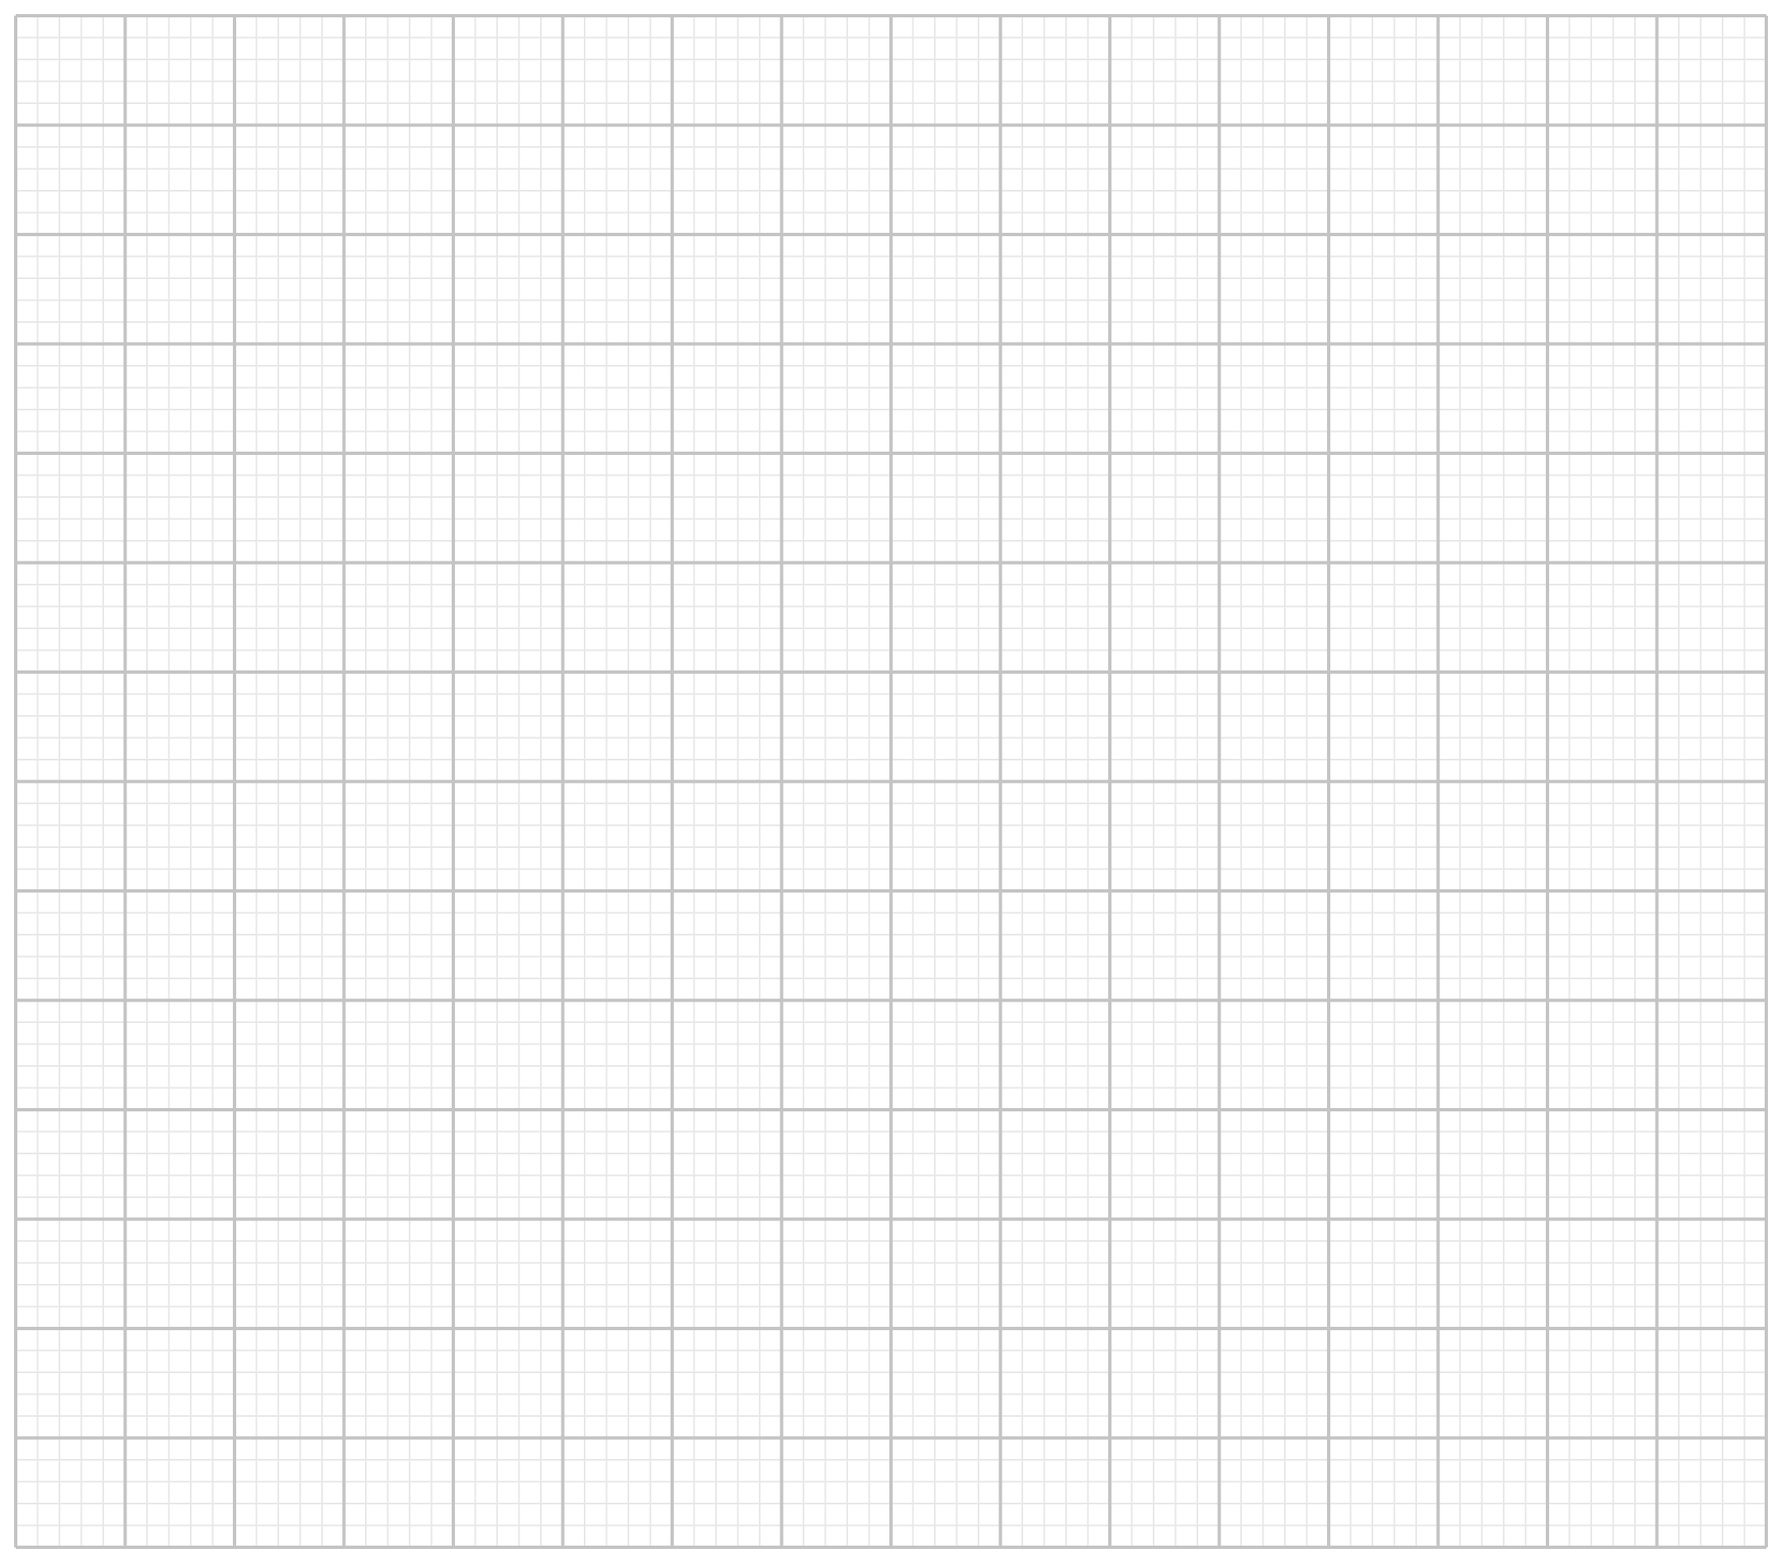
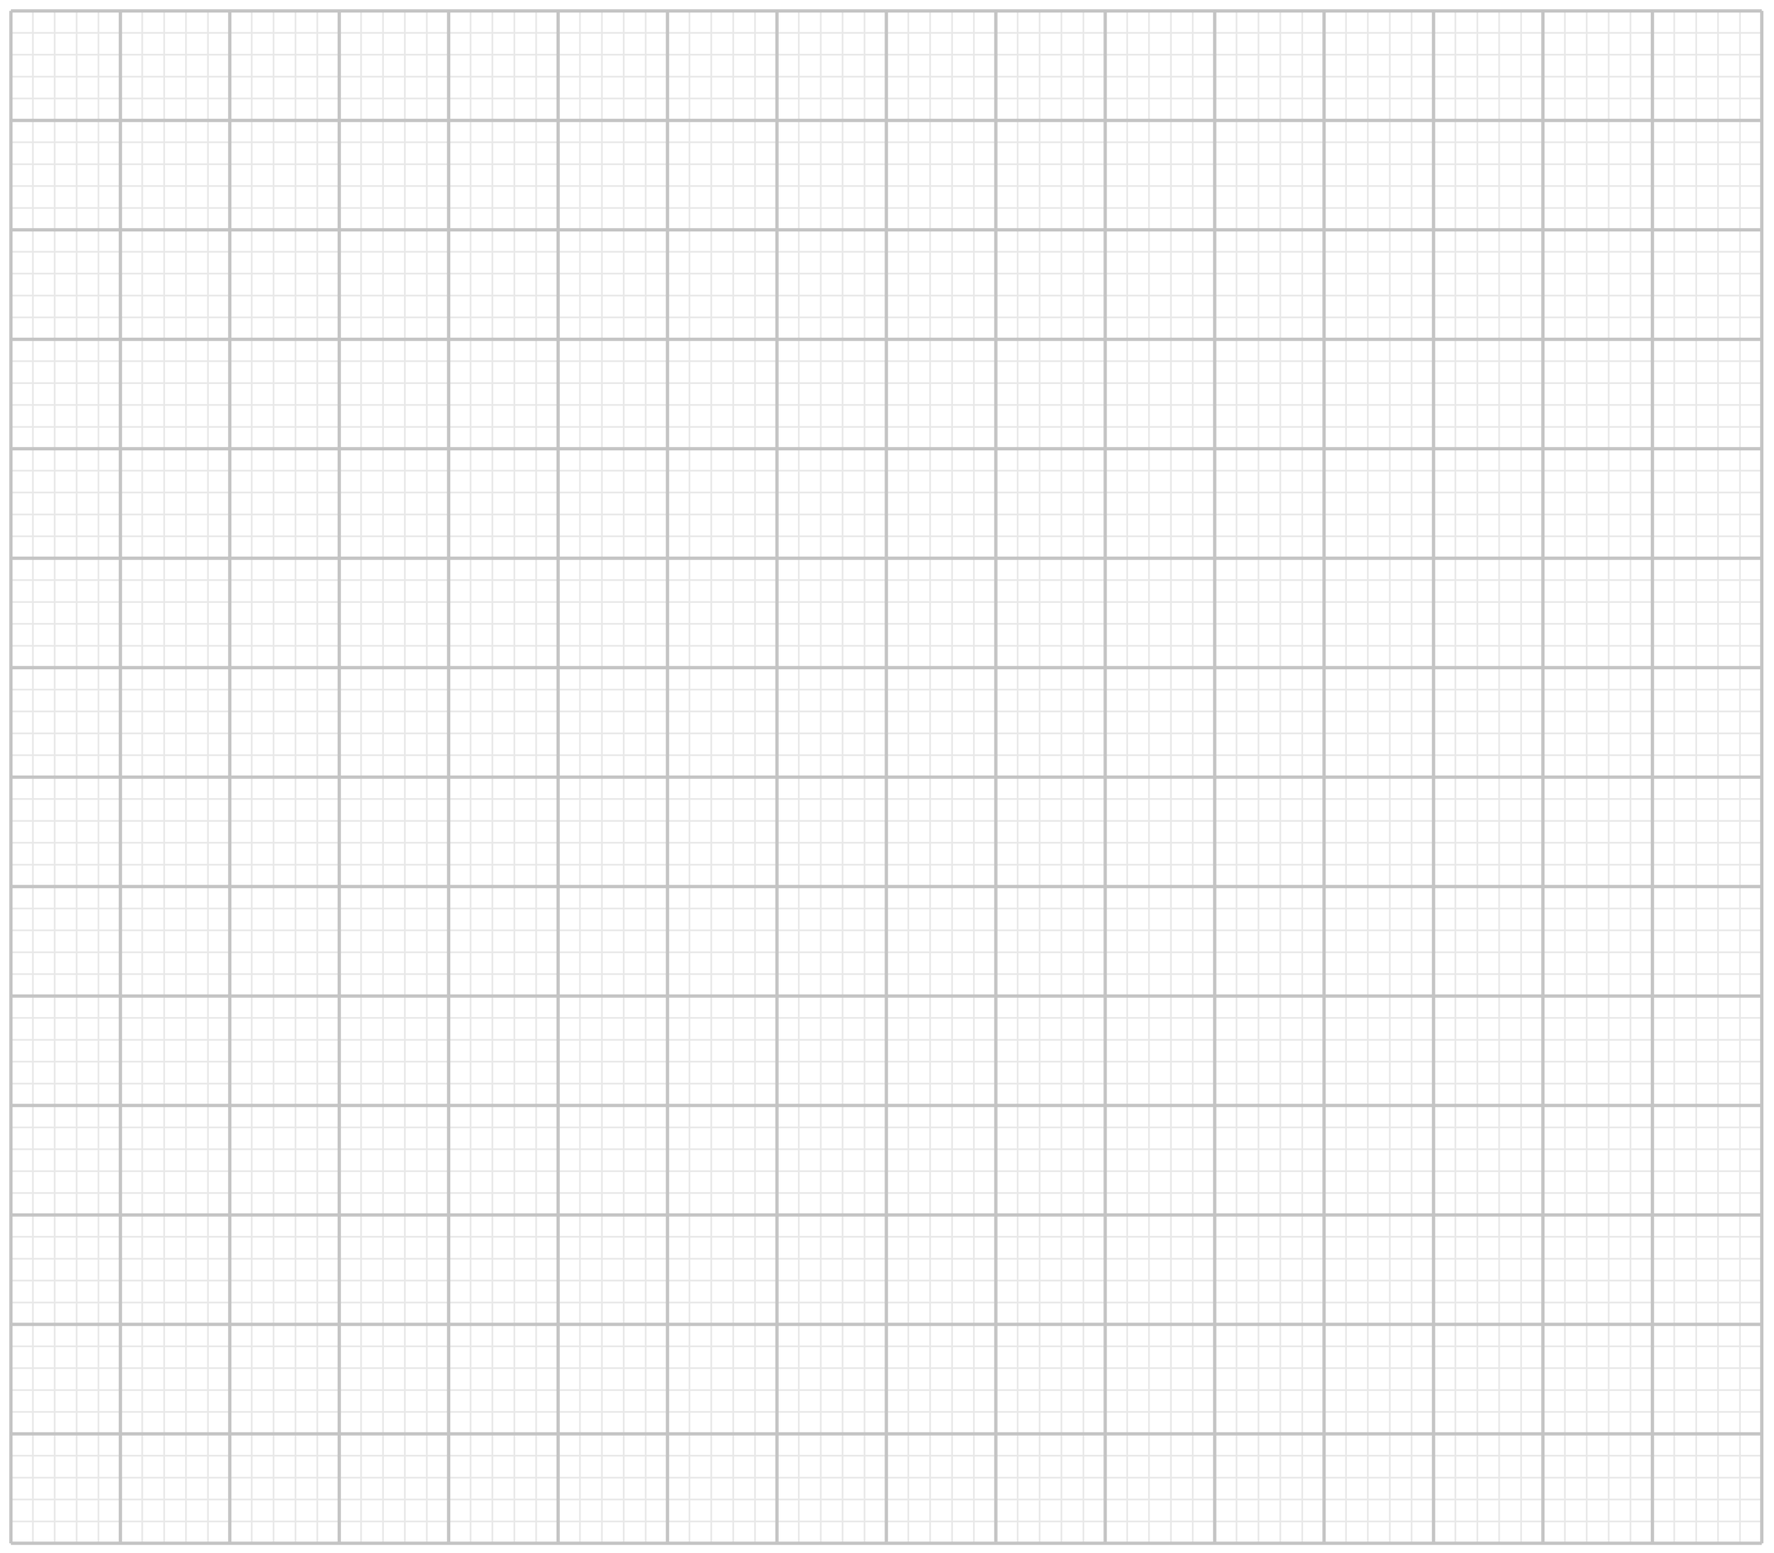
Grids print to scale everywhere; A Math Set 2 P2 Q10 ends without optimisation
Adrian, 24 Sep 2026: "is the graph to scale?" A graph-paper grid the candidate
draws on now prints with 1 cm squares (2 mm small squares) in all three outputs:
- figure.mjs trims a blank grid (axes: false) to the grid plus a hairline, so a
  16-square grid is 16.2 cm, not 18.7 cm of mostly empty margin;
- render-paper-pdf.ts sizes a grid for the PRINTED page (166 mm), since its sizing
  pass runs on the 800 px screen layout, and lets it move left into the number
  gutter (the 16-square grid had printed at 0.84 cm squares);
- export-docx.py measures the grid on its PNG and centres it over the margins when
  it is a hair wider than Word's 16 cm (was capped, 0.98 cm squares);
- publish.mjs stores gen_meta.figure.print_width_mm (figure-size.mjs: the grid's
  outer lines on the uploaded PNG over the spec's column count), and /app/print
  prints the figure at that width (print-paper figureWidthMm, render-prelim
  q-img-true) instead of 72% of the text width (about 0.7 cm squares).
A Set already live keeps the old size until it is re-published from the Mac.

"Is max/min gradient tested twice?" Set 2 had calculus optimisation three times
(P1 Q9, P2 Q8(b), P2 Q10) against about one a year in the real papers. P2 Q10(b)(c)
now ask for the k giving equal shaded areas, k = (e^b - 1)/b, and whether it exists
for every b > 0. Opus author, fresh Opus blind solve (agrees), Fable moderator 4/5
at standard, its wording fix applied; P2 re-assembled with --set 2, 10/10 accepted.
[…]

diff --git a/src/lib/render-paper-pdf.ts b/src/lib/render-paper-pdf.ts
@@ -302,8 +302,27 @@ export async function renderPaperPDF(input: PaperPdfInput): Promise<Buffer> {
         // A graph-paper grid (.pp-figure-tall) keeps its author's true size.
         const aspect = img.naturalWidth / img.naturalHeight;
         const PX_PER_MM = 96 / 25.4;
-        const capWidth = img.classList.contains('pp-figure-tall') ? Infinity : (aspect >= 1.5 ? 100 : 80) * PX_PER_MM;
+        const tall = img.classList.contains('pp-figure-tall');
+        const capWidth = tall ? Infinity : (aspect >= 1.5 ? 100 : 80) * PX_PER_MM;
         let width = Math.min(sharpWidth, colWidth, capWidth);
+        if (tall) {
+          // A grid keeps its 1 cm squares even when it is wider than the question's
+          // text column (Adrian, 24 Sep 2026: "is the graph to scale?" — a 16-square
+          // grid printed at 0.84 cm squares): it moves left into the question-number
+          // gutter, and shrinks only when the whole printed page cannot hold it.
+          // This pass runs on the screen layout (800 px wide), but the PDF prints
+          // the page 166 mm wide (@page margin 22 mm a side), so the column is
+          // worked out for PRINT: the insets beside it are fixed pt/px and carry over.
+          const PRINT_WIDTH_PX = 166 * (96 / 25.4);
+          const page = document.body.getBoundingClientRect();
+          const col = img.parentElement?.getBoundingClientRect();
+          const leftInset = col ? Math.max(0, col.left - page.left) : 0;
+          const rightInset = col ? Math.max(0, page.right - col.right) : 0;
+          const printCol = PRINT_WIDTH_PX - leftInset - rightInset;
+          width = Math.min(sharpWidth, printCol + leftInset);
+          img.style.marginLeft = `${-Math.max(0, width - printCol)}px`;
+          img.style.maxWidth = 'none';
+        }
         // Never let the height cap squash the drawing: an explicit width against
         // max-height distorts (a circle printed as an ellipse, GCE EM Set 1 Q9 /
         // Q26, Adrian 21 Sep 2026). Shrink the width so the capped height is met

diff --git a/src/lib/render-prelim.ts b/src/lib/render-prelim.ts
@@ -34,6 +34,10 @@ export interface PrelimQuestion {
   marks: number;
   text: string; // markdown with $…$ math (stem + flattened parts)
   imageUrl?: string | null;
+  /** Print the figure at exactly this width (mm) instead of the default 72% cap —
+   * a graph-paper grid whose squares must print at 1 cm (Adrian, 24 Sep 2026:
+   * "is the graph to scale?"). */
+  imageWidthMm?: number | null;
   answer: string; // key text (markdown/math ok)
 }
 
@@ -88,6 +92,7 @@ const STYLES = `
   .q-body{flex:1}
   .q-marks{text-align:right;font-weight:600;color:#333;margin-top:2px}
   .q-img{max-width:72%;display:block;margin:10px auto}
+  .q-img-true{max-width:100%}
   .q-space{border-bottom:1px dashed #e2e8f0;margin:6px 0 2px}
 
   .keypage{page-break-before:always}
@@ -151,6 +156,15 @@ ${body}
 </html>`;
 }
 
+function figureImg(q: PrelimQuestion): string {
+  const alt = `figure for question ${q.pos}`;
+  const mm = q.imageWidthMm;
+  if (mm && Number.isFinite(mm) && mm > 0) {
+    return `<img class="q-img q-img-true" style="width:${Math.round(mm * 10) / 10}mm" src="${esc(q.imageUrl ?? '')}" alt="${alt}">`;
+  }
+  return `<img class="q-img" src="${esc(q.imageUrl ?? '')}" alt="${alt}">`;
+}
+
 function questionsHtml(input: PrelimInput): string {
   const sectionAt = new Map((input.sections ?? []).map((s) => [s.beforePos, s.label]));
   return input.questions
@@ -167,7 +181,7 @@ function questionsHtml(input: PrelimInput): string {
         <div class="q-num">${q.pos}</div>
         <div class="q-body">
           ${mdToHtml(q.text)}
-          ${q.imageUrl ? `<img class="q-img" src="${esc(q.imageUrl)}" alt="figure for question ${q.pos}">` : ''}
+          ${q.imageUrl ? figureImg(q) : ''}
           <div class="q-marks">[${q.marks}]</div>
         </div>
       </div>

diff --git a/src/lib/gce-figure-size.test.ts b/src/lib/gce-figure-size.test.ts
@@ -1,0 +1,32 @@
+import { describe, expect, it } from 'vitest';
+// The GCE Set scripts' grid-width rule (scripts/gce-paper/figure-size.mjs) — publish.mjs
+// stores its result, /app/print prints the grid at it.
+import { gridColumns, gridWidthFromPixels } from '../../scripts/gce-paper/figure-size.mjs';
+
+// A white greyscale image with full-height vertical lines at the given columns.
+function image(width: number, height: number, lines: number[]) {
+  const data = new Uint8Array(width * height).fill(255);
+  for (const x of lines) for (let y = 0; y < height; y++) data[y * width + x] = 180;
+  // a short text-like mark that must not count as a grid line
+  for (let y = 0; y < height / 10; y++) data[y * width + 2] = 0;
+  return data;
+}
+
+describe('grid width (24 Sep 2026: "is the graph to scale?")', () => {
+  it('counts major squares from the spec', () => {
+    expect(gridColumns({ xAxis: { min: 0, max: 16, step: 1, majorsPerStep: 1 } })).toBe(16);
+    expect(gridColumns({ xAxis: { min: 0, max: 2, step: 0.5 } })).toBe(4);
+    expect(gridColumns({})).toBeNull();
+  });
+
+  it('prints the PNG so one major square is 10 mm, margins included', () => {
+    // 4 majors between x = 10 and x = 90 (20 px each) in a 100 px PNG → 5 majors' worth → 50 mm
+    const data = image(100, 60, [10, 30, 50, 70, 90]);
+    expect(gridWidthFromPixels(data, 100, 60, 1, 4)).toBe(50);
+  });
+
+  it('gives up rather than guess when there is no grid', () => {
+    const blank = new Uint8Array(100 * 60).fill(255);
+    expect(gridWidthFromPixels(blank, 100, 60, 1, 4)).toBeNull();
+  });
+});

diff --git a/src/app/api/portal/print-paper/pdf/route.ts b/src/app/api/portal/print-paper/pdf/route.ts
@@ -32,6 +32,7 @@ import {
   toPaperShape,
   type PaperShape,
   type QbPrintRow,
+  figureWidthMm,
   type PrintQuestionRef,
 } from '@/lib/print-paper';
 import type { PaperDef } from '@/lib/prelim-builder';
@@ -76,7 +77,7 @@ export async function GET(req: NextRequest) {
 
   const { data: qRows, error } = await sb
     .from('questions')
-    .select('id, question_text, total_marks, parts, answer, has_image, image_url, figure_url')
+    .select('id, question_text, total_marks, parts, answer, has_image, image_url, figure_url, print_width_mm:gen_meta->figure->>print_width_mm')
     .in('id', refs.map(r => r.id));
   if (error) return NextResponse.json({ error: error.message }, { status: 500 });
   const byId = new Map((qRows as QbPrintRow[]).map(q => [q.id, q]));
@@ -92,6 +93,8 @@ export async function GET(req: NextRequest) {
       // A redrawn/authored figure (figure_url — a public Storage URL, the
       // Set papers' figures live there) wins over the scanned crop.
       imageUrl: q.figure_url || (q.has_image ? storageUrl(q.image_url) : null),
+      // A Set paper's graph-paper grid prints at its true size (1 cm squares).
+      imageWidthMm: q.figure_url ? figureWidthMm(q.print_width_mm) : null,
       answer: answerMarkdown(q),
     });
   }

diff --git a/src/lib/print-paper.test.ts b/src/lib/print-paper.test.ts
@@ -26,6 +26,7 @@ import {
   toPaperShape,
   type MockSlotInput,
   type QbPrintRow,
+  figureWidthMm,
 } from './print-paper';
 import { mulberry32, targetMarks, type Candidate, type PaperDef } from './prelim-builder';
 import type { TopicMastery } from './mastery';
@@ -405,5 +406,22 @@ describe('assembleMockFromCandidates', () => {
         expect(Object.keys(ref).sort()).toEqual(['id', 'marks', 'pos']);
       }
     }
+  });
+});
+
+describe('figureWidthMm (a Set grid prints to scale, 24 Sep 2026)', () => {
+  it('reads the width publish.mjs stored, as text or number', () => {
+    expect(figureWidthMm('162.6')).toBe(162.6);
+    expect(figureWidthMm(113.1)).toBe(113.1);
+  });
+  it('leaves every other figure at the default size', () => {
+    expect(figureWidthMm(null)).toBeNull();
+    expect(figureWidthMm(undefined)).toBeNull();
+    expect(figureWidthMm('')).toBeNull();
+    expect(figureWidthMm('abc')).toBeNull();
+  });
+  it('refuses a width the print column cannot hold, or a speck', () => {
+    expect(figureWidthMm(190)).toBeNull();
+    expect(figureWidthMm(5)).toBeNull();
   });
 });

diff --git a/src/lib/render-prelim.test.ts b/src/lib/render-prelim.test.ts
@@ -104,3 +104,22 @@ describe('buildKeyHTML', () => {
     expect(html).not.toContain('class="cv-warn"');
   });
 });
+
+describe('figures (24 Sep 2026: "is the graph to scale?")', () => {
+  const withFig = (extra: Partial<PrelimInput['questions'][number]>): PrelimInput => ({
+    ...covered,
+    questions: [{ pos: 2, marks: 7, text: 'Draw on the grid.', answer: '-', imageUrl: 'https://x.test/Q2.png', ...extra }],
+  });
+
+  it('prints an ordinary figure under the 72% cap, as before', () => {
+    const html = buildExamHTML(withFig({}));
+    expect(html).toContain('<img class="q-img" src="https://x.test/Q2.png"');
+    expect(html).not.toContain('class="q-img q-img-true"');
+  });
+
+  it('prints a graph-paper grid at its true width, so its squares are 1 cm', () => {
+    const html = buildExamHTML(withFig({ imageWidthMm: 162.6 }));
+    expect(html).toContain('<img class="q-img q-img-true" style="width:162.6mm" src="https://x.test/Q2.png"');
+    expect(html).toContain('.q-img-true{max-width:100%}');
+  });
+});

diff --git a/src/lib/print-paper.ts b/src/lib/print-paper.ts
@@ -397,6 +397,17 @@ export interface QbPrintRow {
   /** A redrawn/authored figure as a full public URL (Set papers, repaired
    * figures) — wins over image_url when present. */
   figure_url?: string | null;
+  /** gen_meta.figure.print_width_mm — a Set paper's graph-paper grid, the width
+   * (mm) at which its squares print at 1 cm (publish.mjs, 24 Sep 2026). */
+  print_width_mm?: string | number | null;
+}
+
+/** The printed width in mm a question's figure asks for, or null for the
+ * renderer's default size. Only sane widths pass (a grid fits the 171 mm text
+ * column of the print layout). */
+export function figureWidthMm(raw: string | number | null | undefined): number | null {
+  const mm = Number(raw);
+  return Number.isFinite(mm) && mm >= 20 && mm <= 171 ? mm : null;
 }
 
 /** First image path out of a bare path or JSON-encoded array, as a public

diff --git a/scripts/gce-paper/export-docx.py b/scripts/gce-paper/export-docx.py
@@ -322,6 +322,53 @@ def figure_width_cm(figures, pos, png):
         return 10.0
 
 
+def grid_width_cm(figures, pos, png):
+    """Printed width (cm) of a graph-paper grid's PNG with its major squares at
+    1 cm, or None for any other figure. Measured on the PNG itself: the outermost
+    vertical lines that run most of its height are the grid's edges, and the spec
+    says how many major squares lie between them — the rule publish.mjs stores for
+    the app (scripts/gce-paper/figure-size.mjs; Adrian, 24 Sep 2026: "is the graph
+    to scale?")."""
+    try:
+        spec = json.load(open(join(figures, f'Q{pos}.figure.json')))
+        if spec.get('family') != 'graph-paper':
+            return None
+        x = spec.get('xAxis') or {}
+        cols = (float(x['max']) - float(x['min'])) / float(x['step']) * float(x.get('majorsPerStep') or 1)
+        from PIL import Image
+        with Image.open(png) as im:
+            g = im.convert('L')
+            w, h = g.size
+            px = g.load()
+            full = [xx for xx in range(w) if sum(1 for yy in range(h) if px[xx, yy] < 250) >= 0.5 * h]
+        if len(full) < 2 or full[-1] <= full[0]:
+            return None
+        cm = w * cols / (full[-1] - full[0])   # one major square = 1 cm
+        return round(cm, 2) if 2 <= cm <= 20 else None
+    except Exception:
+        return None
+
+
+def set_picture_width(p, width_cm, text_cm=16.0):
+    """Give the picture in paragraph p an exact width. Word's figures are capped at
+    the 16 cm text width; a grid a hair wider than that is centred over the margins
+    instead of being shrunk."""
+    EMU = 360000
+    ext = p._p.xpath('.//wp:extent')
+    if not ext:
+        return
+    old_cx, old_cy = int(ext[0].get('cx')), int(ext[0].get('cy'))
+    cx = int(round(width_cm * EMU))
+    cy = int(round(old_cy * cx / old_cx))
+    for e in p._p.xpath('.//wp:extent') + p._p.xpath('.//a:ext'):
+        e.set('cx', str(cx))
+        e.set('cy', str(cy))
+    if width_cm > text_cm:
+        over = Cm((width_cm - text_cm) / 2)
+        p.paragraph_format.left_indent = -over
+        p.paragraph_format.right_indent = -over
+
+
 def has_figure(figures, pos):
     return bool(figures) and any(exists(join(figures, n)) for n in (f'Q{pos}.figure.png', f'Q{pos}.png'))
 
@@ -345,7 +392,10 @@ def figure_para(ws, q, pos, figures, raw=False, key=None):
         ws._block_paras.append(para)
         return True
     if path:
-        ws.figure(path, width_cm=figure_width_cm(figures, key, path))
+        para = ws.figure(path, width_cm=figure_width_cm(figures, key, path))
+        exact = grid_width_cm(figures, key, path)   # measured after ws.figure trimmed the PNG
+        if exact:
+            set_picture_width(para, exact)
         return True
     if q.get('needs_figure') and key == str(pos):
         p = ws.para([('text', '[Figure to be drawn: ' + (q.get('figure_description') or '') + ']', {'italic': True})])

diff --git a/docs/GCE-PAPER.md b/docs/GCE-PAPER.md
@@ -159,6 +159,26 @@ LibreOffice gaps between runs ("F B = 2", "angle F E B"). `join_math_runs()` in
 same). The rest is LibreOffice's. Read a paper in Word or in the app-style PDF from
 `assemble`, and make `lo-pdf.sh` PDFs on the Mac, where LibreOffice finds Cambria Math.
 
+**Grids print to scale (24 Sep 2026, Adrian: "is the graph to scale?").** A graph-paper
+grid the candidate draws on prints with one major square = 1 cm (small squares 2 mm) in
+all three outputs. Before this, the assemble PDF squeezed a 16-square grid into the
+question's text column (0.84 cm squares), the app printed every figure at 72% of the text
+width (about 0.7 cm), and Word capped it at the 16 cm text width. Now:
+- `figure.mjs` trims a blank grid (`axes: false`) to the grid plus a hairline border;
+  a numbered grid keeps its label margins.
+- `render-paper-pdf.ts` works out a grid's column for the PRINTED page (166 mm); its
+  sizing pass runs on the 800 px screen layout. A grid wider than its column moves left
+  into the number gutter.
+- `export-docx.py` measures the grid on the PNG and centres it over the margins when it is
+  a hair wider than 16 cm.
+- `publish.mjs` stores `gen_meta.figure.print_width_mm`, measured the same way on the PNG it
+  uploads (`figure-size.mjs`: the grid's outer lines, over the spec's column count). The
+  app's print route reads it and prints the figure at that width
+  (`lib/print-paper.ts figureWidthMm`, `lib/render-prelim.ts`).
+
+A Set published before this has no stored width and prints its grid as before until it is
+re-published from the Mac. Any Set with a grid needs that: E Math Set 1 P2 Q3, if it is live.
+
 ### Publishing a Set (9 Sep 2026)
 
 ```
@@ -334,6 +354,13 @@ in neither answer's proportions, so the Q8 drawing does not show which lawn fits
 Q9 drawing is not at x = 4. P1 now has three figures (Q8, Q9, Q11). `export-docx.py` also
 learnt to print an unparted question's figure BEFORE its writing space (Q8's had landed
 under the space, chained to Q9's stem) and to keep a stem with its first part.
+**Also 24 Sep, Adrian: "is max/min gradient tested twice?"** Set 2 carried calculus
+optimisation three times (P1 Q9, P2 Q8(b), P2 Q10(b)(c)) against about one a year in the
+real papers, so P2 Q10(b)(c) were rewritten without it: (b) [3] the k for which the two
+shaded regions have equal areas, k = (eᵇ − 1)/b; (c) [4] whether that k exists for every
+b > 0 (yes: b < eᵇ − 1 < b·eᵇ puts it strictly between 1 and eᵇ). Opus author, fresh Opus
+blind solve (agrees), Fable moderator 4/5 at standard; its one wording fix applied. The
+old ending is in the run's `replaced/Q10-least-S.*`.
 The paper JSONs are in `data/gce-generated/`, and the figure specs and PNGs are in
 `data/gce-generated/figures/<key>-seed2/`, which is the `--figures` directory for
 `publish.mjs`. **Not published yet:** it waits for Adrian's read, and then needs the service
